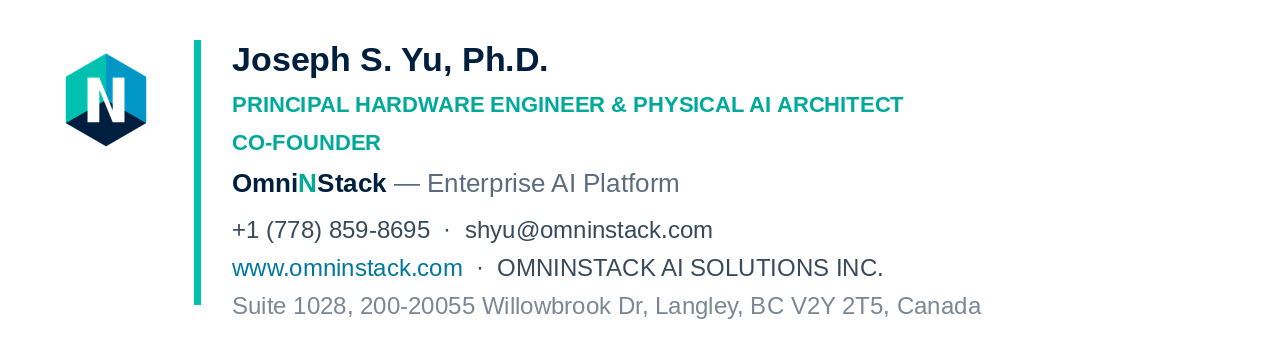
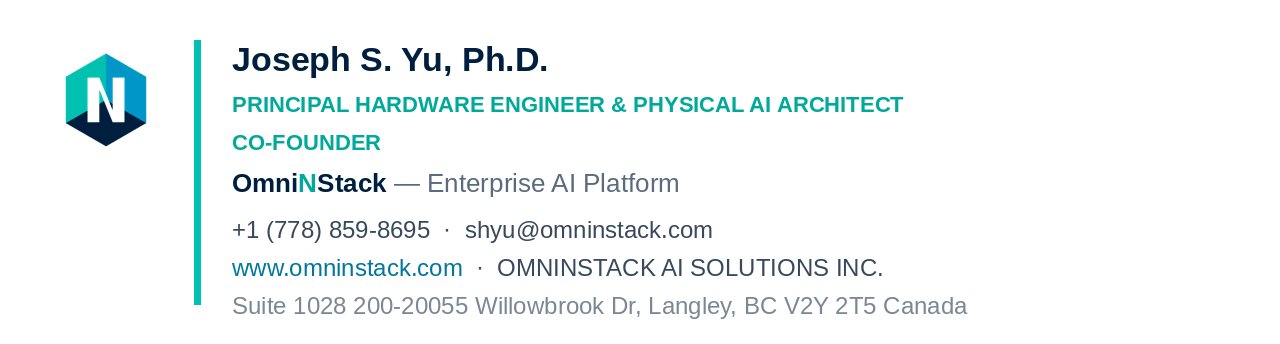
Update all materials: new address

Changed region(s): [[0.2812, 0.843, 0.7812, 0.9302]]

diff --git a/brand-identity/people/joseph-yu/email-signature/signature-embedded.html b/brand-identity/people/joseph-yu/email-signature/signature-embedded.html
@@ -19,7 +19,7 @@
         <a href="mailto:shyu@omninstack.com" style="color:#38495C; text-decoration:none;">shyu@omninstack.com</a><br>
         <a href="https://www.omninstack.com" style="color:#00779E; text-decoration:none;">www.omninstack.com</a>
         &nbsp;·&nbsp; OMNINSTACK AI SOLUTIONS INC.<br>
-        <span style="color:#7A8794;">Suite 1028, 200-20055 Willowbrook Dr, Langley, BC V2Y 2T5, Canada</span>
+        <span style="color:#7A8794;">Suite 1028 200-20055 Willowbrook Dr, Langley, BC V2Y 2T5 Canada</span>
       </div>
     </td>
   </tr>

diff --git a/brand-identity/people/joseph-yu/email-signature/signature.html b/brand-identity/people/joseph-yu/email-signature/signature.html
@@ -19,7 +19,7 @@
         <a href="mailto:shyu@omninstack.com" style="color:#38495C; text-decoration:none;">shyu@omninstack.com</a><br>
         <a href="https://www.omninstack.com" style="color:#00779E; text-decoration:none;">www.omninstack.com</a>
         &nbsp;·&nbsp; OMNINSTACK AI SOLUTIONS INC.<br>
-        <span style="color:#7A8794;">Suite 1028, 200-20055 Willowbrook Dr, Langley, BC V2Y 2T5, Canada</span>
+        <span style="color:#7A8794;">Suite 1028 200-20055 Willowbrook Dr, Langley, BC V2Y 2T5 Canada</span>
       </div>
     </td>
   </tr>
